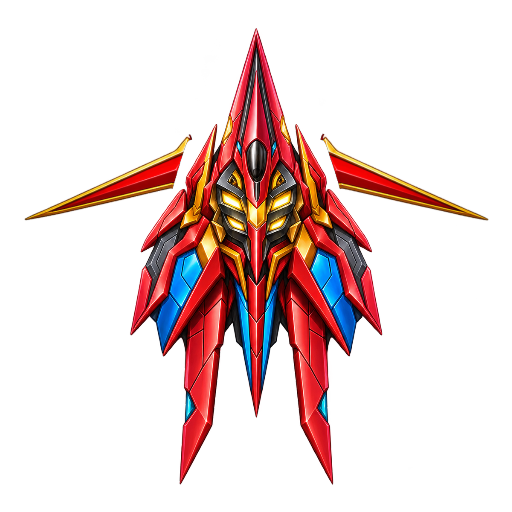
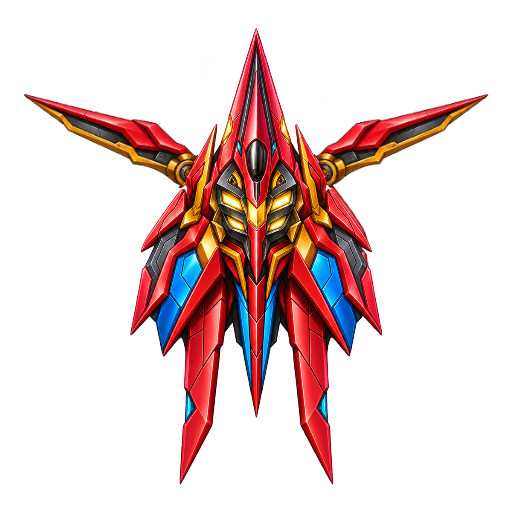
Thử V231D: sống cánh tàu 8 vẽ lại (GPT) ghép lên đúng thân thường; lưu 4 mẫu hướng đã chốt
Claude-Session: https://claude.ai/code/session_01AseaWCP472YazYg4XKBJxW

Changed region(s): [[0.5938, 0.1875, 0.9688, 0.5312], [0.0312, 0.1875, 0.4062, 0.4375]]

diff --git a/claude_tools/tau8_v231d_bt.py b/claude_tools/tau8_v231d_bt.py
@@ -1,0 +1,66 @@
+# V231D · ghép sống cánh vẽ lại của GPT (tau8_tim_bt_thu.png, 1254 px) lên CHÍNH thân thường 512 → tau8_tim_bt.png
+#  python3 claude_tools/tau8_v231d_bt.py <tau8_tim.png 512> <tau8_tim_bt_thu.png> <ra.png> <so_do.json>
+import sys, json
+import numpy as np, cv2
+from PIL import Image
+fT, fB, fO, fJ = sys.argv[1:5]
+T = np.asarray(Image.open(fT).convert('RGBA')).astype(np.float32)        # 512, thân chuẩn
+B = np.asarray(Image.open(fB).convert('RGBA')).astype(np.float32)        # 1254, bản GPT
+SO = {}
+# 1) tìm tỉ lệ + vị trí của thân 512 trong ảnh GPT (so lõi thân, bỏ hai bên)
+best = None
+for s in np.arange(1.9, 2.8, 0.005):
+    ts = cv2.resize(T, None, fx=s, fy=s, interpolation=cv2.INTER_LINEAR); a = ts[..., 3] / 255; h, w = a.shape
+    if h > B.shape[0]: break
+    m = (a > .9).astype(np.float32); m[:, :int(w * .40)] = 0; m[:, int(w * .60):] = 0
+    r = cv2.matchTemplate(B[..., :3], ts[..., :3], cv2.TM_SQDIFF, mask=np.dstack([m] * 3)); v, _, loc, _ = cv2.minMaxLoc(r); v /= m.sum() * 3
+    if best is None or v < best[0]: best = (v, s, loc)
+v, S, (lx, ly) = best
+SO['ti_le_512_sang_GPT'] = round(float(S), 4); SO['vi_tri'] = [int(lx), int(ly)]; SO['rmse_loi_than'] = round(float(v) ** .5, 1)
+# 2) đưa ảnh GPT về hệ 512 bằng phép ngược
+P = 160  # đệm hai bên để mũi sống cánh không bị cắt trước khi thu
+M = np.float32([[1 / S, 0, -lx / S + P], [0, 1 / S, -ly / S]])
+B5w = cv2.warpAffine(B, M, (512 + 2 * P, 512), flags=cv2.INTER_AREA, borderValue=(0, 0, 0, 0))
+Tw = np.zeros_like(B5w); Tw[:, P:P + 512] = T
+B5 = B5w[:, P:P + 512]
+# so thân giữa của GPT với thân chuẩn (để báo)
+core = T[..., 3] > 200; cc = core.copy(); cc[:, :200] = False; cc[:, 312:] = False
+d = np.abs(B5[..., :3] - T[..., :3]).mean(-1)[cc & (B5[..., 3] > 200)]
+SO['than_giua_GPT_so_chuan'] = {'khac_mau_TB': round(float(d.mean()), 1), 'ti_le_diem_khac_tren_40': round(float((d > 40).mean() * 100), 1)}
+# 3) sống cánh = phần GPT nằm ngoài thân chuẩn, nối với vùng ngoài khung bao thân
+ys, xs = np.where(T[..., 3] > 128); x0, x1 = xs.min(), xs.max()
+sp = ((B5w[..., 3] > 8) & (Tw[..., 3] < 40)).astype(np.uint8); x0 += P; x1 += P
+sp = cv2.morphologyEx(sp, cv2.MORPH_OPEN, np.ones((3, 3), np.uint8))
+n, lab, st, _ = cv2.connectedComponentsWithStats(sp); keep = np.zeros(sp.shape, bool)
+for i in range(1, n):
+    xa, ya, wa, ha, ar = st[i]
+    if ar > 150 and (xa < x0 - 4 or xa + wa > x1 + 4): keep |= lab == i
+keep = cv2.dilate(keep.astype(np.uint8), np.ones((3, 3), np.uint8)).astype(bool) & (B5w[..., 3] > 0)
+SPw = B5w.copy(); SPw[~keep] = 0
+# thu mỗi sống cánh quanh chân (điểm gần trục giữa nhất) để mũi cách mép khung 512 ít nhất 24 px
+acc = np.zeros_like(SPw); cxw = 256 + P
+for side in (-1, 1):
+    h = SPw.copy()
+    if side < 0: h[:, cxw:] = 0
+    else: h[:, :cxw] = 0
+    ys, xs = np.where(h[..., 3] > 128)
+    if not len(xs): continue
+    i = np.argmax(xs) if side < 0 else np.argmin(xs); rx, ry = float(xs[i]), float(ys[i])
+    tip = xs.min() if side < 0 else xs.max(); lim = (P + 24) if side < 0 else (P + 511 - 24)
+    k = min(1.0, abs(lim - rx) / abs(tip - rx)); SO.setdefault('thu_song_canh', {})['trai' if side < 0 else 'phai'] = round(k, 3)
+    A = np.float32([[k, 0, rx * (1 - k)], [0, k, ry * (1 - k)]])
+    h2 = cv2.warpAffine(h, A, (h.shape[1], h.shape[0]), flags=cv2.INTER_AREA)
+    acc = acc + h2 * (1 - acc[..., 3:4] / 255)
+SP = acc[:, P:P + 512]
+ta = T[..., 3:4] / 255; sa = SP[..., 3:4] / 255; oa = ta + sa * (1 - ta)
+out = np.dstack([(T[..., :3] * ta + SP[..., :3] * sa * (1 - ta)) / np.maximum(oa, 1e-6), oa * 255])
+Image.fromarray(out.clip(0, 255).astype(np.uint8), 'RGBA').save(fO)
+ys, xs = np.where(out[..., 3] > 24); SO['bt_khung_bao'] = [int(xs.min()), int(xs.max()), int(ys.min()), int(ys.max())]
+SO['bt_le_min'] = int(min(xs.min(), ys.min(), 511 - xs.max(), 511 - ys.max()))
+dd = np.abs(out[..., :3] - T[..., :3]).mean(-1)[core]; SO['than_giua_trung_khit'] = {'khac_mau_TB': round(float(dd.mean()), 2), 'lech_px': 0}
+ys, xs = np.where(SP[..., 3] > 128)
+for nm, sel in (('trai', xs < 256), ('phai', xs >= 256)):
+    if sel.any():
+        xx, yy = xs[sel], ys[sel]; i = np.argmin(xx) if nm == 'trai' else np.argmax(xx)
+        SO['mui_song_canh_' + nm] = [int(xx[i]), int(yy[i])]
+json.dump(SO, open(fJ, 'w'), ensure_ascii=False, indent=1); print(json.dumps(SO, ensure_ascii=False))
